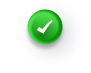
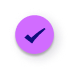
add the css design for popups

diff --git a/lms/templates/custom_programs/program_about.html b/lms/templates/custom_programs/program_about.html
@@ -706,7 +706,7 @@ for index, data in enumerate(sorted_leaderboard, start=1):
     <div class="leaderboard-row">
       <div class="rank-icon">${index}</div>
       <div class="icon">
-        <img src="${static.url('images/image-profile.png')}" alt="avatar">
+        <img src="${static.url('images/image-profile-blue.png')}" alt="avatar">
       </div>
       <div class="row-right ${color_class}"> 
         <div class="name pt0">${user_data['name'] or user_data['username']}</div>
@@ -732,40 +732,78 @@ for index, data in enumerate(sorted_leaderboard, start=1):
 
 <div id="control-content" style="display:none;">
 
-    <div class="control-header">
-        <img src="${static.url('images/game-controller.png')}" class="controller-header-img">
+    <div id="control-blur-wrapper">
+
+        <div class="control-header">
+            <img src="${static.url('images/game-controller.png')}" class="controller-header-img">
+        </div>
+    <div class="control-intro-text">
+                    قبل أن تبدأوا مغامرتكم، إليكم كيفية التنقّل:
+     </div>
+        <!-- SECTION 1 -->
+        <div class="control-section">
+            <div class="control-image-box">
+                <img src="${static.url('images/control-challenges.png')}" alt="">
+            </div>
+
+            <div class="control-text-box">
+                <h3>التحديات</h3>
+                <ul>
+                    <li>التحديات تُفتح بالتسلسل.</li>
+                    <li>يجب إكمال التحدي الحالي للوصول إلى التالي.</li>
+                </ul>
+            </div>
+        </div>
+
+        <!-- SECTION 2 -->
+        <div class="control-section">
+            <div class="control-image-box">
+                <img src="${static.url('images/control-evaluation.png')}" alt="">
+            </div>
+
+            <div class="control-text-box">
+                <h3>التقييمات والواجبات</h3>
+                <ul>
+                    <li>هل أنتم مستعدون؟ ابدأوا باختبار مهاراتكم قبل الانطلاق.</li>
+                    <li>تساعدكم التقييمات المستمرة على قياس تقدمكم وتطوير مهاراتكم.</li>
+                    <li>هل تجاوزتم التحدي الأخير؟ أحسنتم واجمعوا نقاطكم نحو الشهادة.</li>
+                </ul>
+            </div>
+        </div>
+
+        <div class="control-section">
+            <div class="control-image-box">
+                <img src="${static.url('images/tickinlaw7atta7akom.png')}" alt="">
+            </div>
+            
+            <div class="control-text-box">
+                <h3>أدوات الاستمرارية</h3>
+                <ul>
+                    <li>مع إكمال كل تمرين تدريبي، تحصلون على أداة من حقيبة الاستمرارية.</li>
+                    <li>عند إتمام جمع الأدوات، تصبحون مؤهلين للحصول على الشهادة النهائية.</li>
+                </ul>
+            </div>
+        </div>
+
+        <div class="control-section">
+            <div class="control-image-box">
+                <img src="${static.url('images/ka2es.png')}" alt="">
+            </div>
+
+            <div class="control-text-box">
+                <h3>لوحة الصدارة</h3>
+                <ul>
+                    <li>تعرض موقعكم في الترتيب مقارنة بالمشاركين الآخرين.</li>
+                    <li>تظهر مجموع نقاط الخبرة (XP) التي حصلتم عليها.</li>
+                    <li>توضح تقدمكم في التحديات والتقييمات والواجبات.</li>
+                </ul>
+            </div>
+        </div>
+
     </div>
 
-    <div class="control-section">
-    <div class="control-image-box">
-        <img src="${static.url('images/control-challenges.png')}" alt="">
-    </div>
-
-    <div class="control-text-box">
-        <h3>التحديات</h3>
-        <ul>
-            <li>التحديات تُفتح بالتسلسل.</li>
-            <li>يجب إكمال التحدي الحالي للوصول إلى التالي.</li>
-        </ul>
-    </div>
 </div>
 
-<div class="control-section">
-    <div class="control-image-box">
-        <img src="${static.url('images/control-evaluation.png')}" alt="">
-    </div>
-
-    <div class="control-text-box">
-        <h3>التقييمات والواجبات</h3>
-        <ul>
-            <li>هل أنتم مستعدون؟ ابدأوا باختبار مهاراتكم قبل الانطلاق.</li>
-            <li>تساعدكم التقييمات المستمرة على قياس تقدمكم وتطوير مهاراتكم.</li>
-            <li>هل تجاوزتم التحدي الأخير؟ أحسنتم واجمعوا نقاطكم نحو الشهادة.</li>
-        </ul>
-    </div>
-</div>
-
-</div>
 
 
 
@@ -775,6 +813,9 @@ for index, data in enumerate(sorted_leaderboard, start=1):
                 <img src="${static.url('images/badges-icon-popup.png')}" alt="img">
                 <h2>ادوات الاستمرارية</h2>
             </div>    -->
+              <div class="sharati-intro-text">
+        كل تحدٍ يمنحكم أداة جديدة تساعدكم على الاستمرار بعد انقطاع الإنترنت. أكملوا جميع التحديات لجمع الأدوات الستة وتكوين «حقيبة الاستمرارية».
+    </div>
          <div class="badge-grid">
             % for badge in my_badges:
                 <%      
@@ -822,9 +863,10 @@ for index, data in enumerate(sorted_leaderboard, start=1):
 
         <!-- LEFT -->
         <div class="popup-left">
-            <div class="icon-item-tab" data-target="certificate-content" style="padding-left:50px">
+
+            <div class="icon-item-tab no-color" data-target="certificate-content" style="padding-left:50px">
                 <div class="icon-circle-tab">
-                    <img src="${static.url('images/cert-icon.png')}">
+                    <img src="${static.url('images/cert-icon-new.png')}">
                 </div>
                 <p class="tab-label" >شهاداتي</p>
             </div>
@@ -839,13 +881,12 @@ for index, data in enumerate(sorted_leaderboard, start=1):
                 <p class="tab-label">لوحة الصدارة</p>
             </div>
 
-            <div class="icon-item-tab" data-target="my-badges-content">
+            <div class="icon-item-tab no-color" data-target="my-badges-content">
                 <div class="icon-circle-tab">
                     <img src="${static.url('images/sharati.png')}">
                 </div>
                 <p class="tab-label">شاراتي</p>
             </div>
-
             <div class="icon-item-tab" data-target="control-content">
                 <div class="icon-circle-tab">
                     <img src="${static.url('images/law7atta7akom.png')}">

diff --git a/lms/static/custom_css/program.css b/lms/static/custom_css/program.css
@@ -115,6 +115,13 @@ max-width: 50px;
     box-shadow: 0 2px 8px rgba(0, 0, 0, 0.05);
     /* padding: 20px; */
     color: #fff;
+    backdrop-filter: blur(18px);
+    -webkit-backdrop-filter: blur(18px);
+
+    border-radius: 20px;
+    padding: 25px;
+    position: relative;
+    box-shadow: 0 0 40px rgba(0, 0, 0, 0.25);
 }
 /*leaderboard new css  styles*/
    .leaderboard-row {
@@ -1187,7 +1194,7 @@ text-align: right;
 }
 
 .eval-icon {
-    width: 80px; 
+    width: 70px; 
     height: 70px;
 }
 
@@ -1364,7 +1371,7 @@ flex: unset !important;
     width: 350px;
     filter: drop-shadow(0 10px 30px rgba(0, 0, 0, 0.3));
     display: block;
-   margin: -178px 80px -128px;
+   margin: -204px 79px -182px;
     padding-right: 750px;
      pointer-events: none;
 }
@@ -1378,6 +1385,9 @@ flex: unset !important;
     padding: 0 40px;
     direction: ltr;
         margin-top: -75px;
+        position: relative;
+  z-index: 5;
+
 }
 
 .popup-purple-icons .popup-left {
@@ -1451,6 +1461,28 @@ max-width: 50px;
     font-size: 16px !important;
     font-family: 'Cairo', sans-serif !important;
 }
+/* Active Circle */
+.icon-item-tab.active .icon-circle-tab {
+    background: #ffffff;
+    transform: translateY(-6px);
+    box-shadow: 0px 12px 25px rgba(0, 0, 0, 0.20);
+}
+
+/* Convert image color to #416A9E */
+.icon-item-tab.active .icon-circle-tab img {
+    filter: brightness(0) saturate(100%) invert(34%) sepia(20%) saturate(940%) hue-rotate(178deg) brightness(93%) contrast(90%);
+    /* This produces EXACT #416A9E */
+    transition: 0.25s ease;
+}
+.icon-item-tab.no-color.active .icon-circle-tab img {
+    filter: none !important;
+}
+
+/* Text */
+.icon-item-tab.active p {
+    color: #ffffff;
+    font-weight: 700;
+}
 .control-row {
     display: flex;
     justify-content: space-between;
@@ -1500,6 +1532,7 @@ max-width: 50px;
   margin-bottom: 18px;
   visibility: visible;
   color: white;
+  font-family: "Cairo", sans-serif !important;
 }
 
 .control-text-box ul {
@@ -1513,6 +1546,7 @@ max-width: 50px;
     margin-bottom: 10px;
     position: relative;
     padding-right: 18px;
+    font-family: "Cairo", sans-serif !important;
 }
 
 /* Custom bullet point */
@@ -1522,9 +1556,17 @@ max-width: 50px;
     right: 0;
     top: 4px;
     font-size: 18px;
-    color: #ffd27f;
+    color: #ffffff
 }
-
+.control-intro-text {
+    text-align: right;
+    color: white;
+    font-size: 20px;
+    font-weight: 600;
+    font-family: "Cairo", sans-serif;
+    margin: 0 0 25px 0;
+    padding-right: 20px;
+}
 .yellow-icon-alone {
     display: flex;
     justify-content: flex-end; 
@@ -1532,7 +1574,18 @@ max-width: 50px;
     margin-top: -110px;
     padding-left: 1050px;
 }
+#control-blur-wrapper {
+    backdrop-filter: blur(18px);
+    -webkit-backdrop-filter: blur(18px);
 
+    border-radius: 20px;
+    padding: 25px;
+    position: relative;
+
+    background: rgba(255, 255, 255, 0.05); 
+    box-shadow: 0 0 40px rgba(0, 0, 0, 0.25);
+
+}
 .yellow-icon img {
     width: 80px;
     height: 80px;
@@ -1549,4 +1602,27 @@ max-width: 50px;
 }
 .icon-item.yellow-icon {
   padding-left: 431px;
+}
+.sharati-intro-text {
+ text-align: center;
+  color: #ffffff;
+  font-family: "Cairo", sans-serif;
+  font-size: 18px;
+  font-weight: 800;
+  margin-top: 13px;
+  margin-bottom: 35px;
+  line-height: 1.8;
+  width: 50%;
+  padding-right: 340px;
+}
+.rank-box {
+ font-family: "Cairo", sans-serif;
+font-size: 72px;
+  font-weight: bold;
+  line-height: 1.5;
+  text-align: center;
+  font-family: Arial, sans-serif;
+  color: #fff0;
+  text-shadow: -1px -1px 1px rgba(255, 255, 255, 0.4), 1px 1px 1px rgba(0, 0, 0, 0.7);
+  padding-left: 54px;
 }